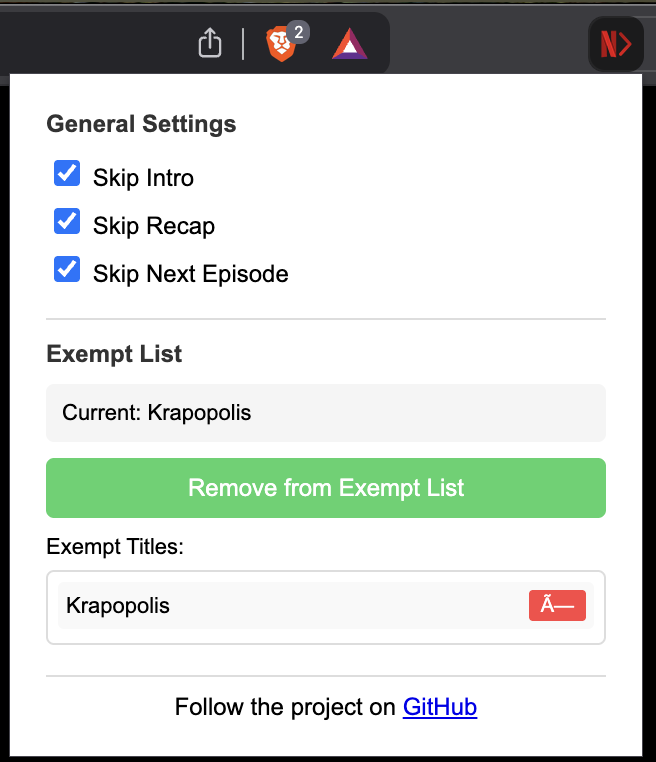
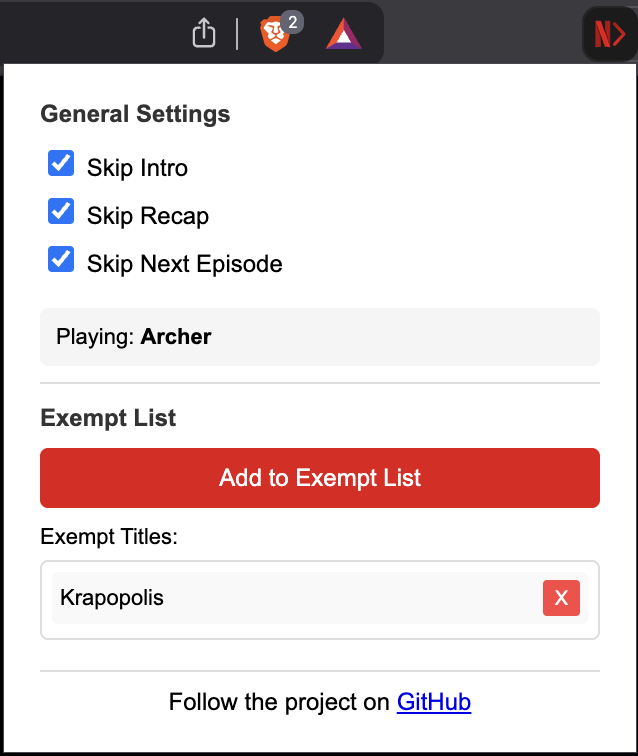
minor styling

Changed region(s): [[0.0, 0.0, 1.0, 1.0], [0.0596, 0.4259, 0.3276, 0.4868], [0.268, 0.9127, 0.7445, 0.9431]]

diff --git a/src/popup.html b/src/popup.html
@@ -31,6 +31,9 @@
         font-size: 11px;
         word-wrap: break-word;
       }
+      .current-title span {
+        font-weight: bold;
+      }
       .toggle-button {
         width: 100%;
         padding: 8px;
@@ -79,6 +82,19 @@
         padding: 2px 6px;
         cursor: pointer;
         font-size: 10px;
+        transition: all 0.2s ease;
+        min-width: 18px;
+        height: 18px;
+        display: flex;
+        align-items: center;
+        justify-content: center;
+      }
+      .remove-item:hover {
+        background: #cc0000;
+        transform: scale(1.1);
+      }
+      .remove-item:active {
+        transform: scale(0.95);
       }
       .github-link {
         margin-top: 10px;
@@ -104,13 +120,13 @@
         <label for="skip-next">Skip Next Episode</label>
       </div>
     </div>
-
+    <div class="current-title">
+      Playing: <span id="current-title">Loading...</span>
+    </div>
     <div class="section exempt-controls">
       <div class="section-title">Exempt List</div>
       <div id="current-title-container" style="display: none;">
-        <div class="current-title">
-          Current: <span id="current-title">Loading...</span>
-        </div>
+        
         <button id="toggle-exempt" class="toggle-button disabled-button" disabled>
           Loading...
         </button>

diff --git a/src/popup.js b/src/popup.js
@@ -75,12 +75,29 @@ function updateExemptList() {
     return;
   }
   
-  exemptListDiv.innerHTML = exemptTitles.map(title => `
-    <div class="exempt-item">
-      <span style="flex: 1; margin-right: 8px;">${title}</span>
-      <button class="remove-item" onclick="removeExemptTitle('${title.replace(/'/g, "\\'")}')">×</button>
-    </div>
-  `).join('');
+  // Clear the container first
+  exemptListDiv.innerHTML = '';
+  
+  // Create each exempt item with proper event listeners
+  exemptTitles.forEach((title, index) => {
+    const itemDiv = document.createElement('div');
+    itemDiv.className = 'exempt-item';
+    
+    const titleSpan = document.createElement('span');
+    titleSpan.style.flex = '1';
+    titleSpan.style.marginRight = '8px';
+    titleSpan.textContent = title;
+    
+    const removeButton = document.createElement('button');
+    removeButton.className = 'remove-item';
+    removeButton.textContent = 'X';
+    removeButton.title = `Remove "${title}" from exempt list`;
+    removeButton.addEventListener('click', () => removeExemptTitle(title));
+    
+    itemDiv.appendChild(titleSpan);
+    itemDiv.appendChild(removeButton);
+    exemptListDiv.appendChild(itemDiv);
+  });
 }
 
 // Function to remove a title from exempt list
